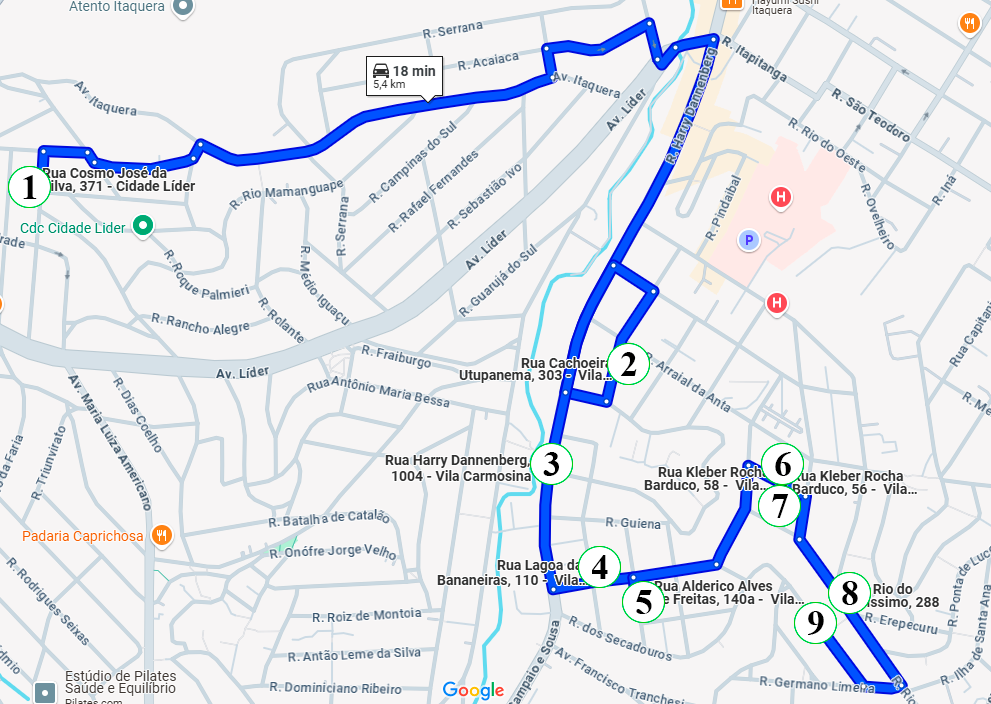
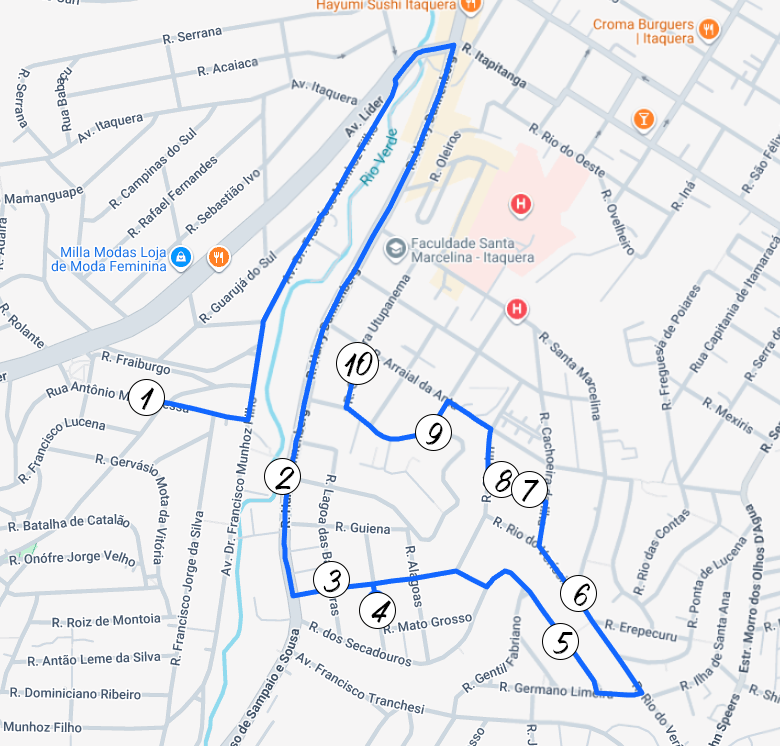
Atualização geral dos mapas

diff --git a/c-parque/c1.html b/c-parque/c1.html
@@ -62,12 +62,9 @@
 
     <main class="todos-enderecos">
         <h1>C1</h1>
-        <div class="botoes">
-            <a href="#" class="btn-trocar" id="btn01">Confirmados</a>
-            <a href="#" class="btn-trocar" id="btn02">Confirmar</a>
-        </div>
+        
         <section class="enderecos" id="enderecos">
-            <h3>Endereços confirmados</h3>
+            <h3>Parque do Carmo</h3>
             <table>
                 <tr>
                     <th class="vermelho">Nº</th>
@@ -77,62 +74,68 @@
                 </tr>
                 <tr>
                     <td class="linha-vermelha">1</td>
-                    <td class="linha-vermelha">R. Cosmo José da Silva, 371</td>
+                    <td class="linha-vermelha">R. Antônio Maria Bessa, 471</td>
                     <td class="linha-vermelha"></td>
-                    <td class="linha-vermelha ita"><a href="https://maps.app.goo.gl/Xz47ZzfyabTKdSjq5" target="_blank"><i class="bi bi-geo-alt-fill itaquera"></i></a></td>
+                    <td class="linha-vermelha"><a href="https://maps.app.goo.gl/NFpyh3jscUbqWLJY7"><i class="bi bi-geo-alt-fill itaquera"></i></a></td>
                 </tr>
                 <tr>
                     <td class="linha-vermelha">2</td>
                     <td class="linha-vermelha">Harry dannemberg, número 1004</td>
                     <td class="linha-vermelha">Portão pretro</td>
                     <td class="linha-vermelha"><a href="https://maps.app.goo.gl/voveXFeJ2vBLphCL7" target="_blank"><i class="bi bi-geo-alt-fill  itaquera"></i></a></td>
-                </tr>  
+                </tr>                                  
                 <tr>
                     <td class="linha-vermelha">3</td>
-                    <td class="linha-vermelha">R. Cachoeira Utupanema, 303</td>
+                    <td class="linha-vermelha">R. Lagoa das Bananeiras, 110
+                    </td>
                     <td class="linha-vermelha"></td>
-                    <td class="linha-vermelha"><a href="https://maps.app.goo.gl/mVWrsYh77WuEFRxn6" target="_blank"><i class="bi bi-geo-alt-fill  itaquera"></i></a></td>
-                </tr>  
+                    <td class="linha-vermelha"><a href="https://maps.app.goo.gl/q5GExsmqEWVbYnhm7" target="_blank"><i class="bi bi-geo-alt-fill  itaquera"></i></a></td>
+                </tr>
                 <tr>
                     <td class="linha-vermelha">4</td>
-                    <td class="linha-vermelha">R. Kleber Rocha Barduco, 56
-                    </td>
-                    <td class="linha-vermelha"></td>
-                    <td class="linha-vermelha"><a href="https://maps.app.goo.gl/uz8o5bQHafWFuuyR7" target="_blank"><i class="bi bi-geo-alt-fill  itaquera"></i></a></td>
-                </tr>  
+                    <td class="linha-vermelha">R. Alderico Alves de Freitas, 140A</td>
+                    <td class="linha-vermelha">Casa dos fundos</td>
+                    <td class="linha-vermelha"><a href="https://maps.app.goo.gl/KdkKXQ17B3BnMkCz7" target="_blank"><i class="bi bi-geo-alt-fill  itaquera"></i></a></td>
+                </tr> 
                 <tr>
                     <td class="linha-vermelha">5</td>
-                    <td class="linha-vermelha">R. Kleber Rocha Barduco, 58
-                    </td>
+                    <td class="linha-vermelha">R. Ferdinando Ramponi, 138</td>
                     <td class="linha-vermelha"></td>
-                    <td class="linha-vermelha"><a href="https://maps.app.goo.gl/ozDgnx7Df4MzHGMH7" target="_blank"><i class="bi bi-geo-alt-fill  itaquera"></i></a></td>
-                </tr>  
+                    <td class="linha-vermelha"><a href="https://maps.app.goo.gl/dJW7sA6TkEb4jS8p6" target="_blank"><i class="bi bi-geo-alt-fill  itaquera"></i></a></td>
+                </tr>   
                 <tr>
                     <td class="linha-vermelha">6</td>
                     <td class="linha-vermelha">R. Rio do Verissímo, 288
                     </td>
                     <td class="linha-vermelha"></td>
                     <td class="linha-vermelha"><a href="https://maps.app.goo.gl/BtEogCvsTKFQY8rp9" target="_blank"><i class="bi bi-geo-alt-fill  itaquera"></i></a></td>
-                </tr>
+                </tr> 
                 <tr>
                     <td class="linha-vermelha">7</td>
-                    <td class="linha-vermelha">R. Ferdinando Ramponi, 138</td>
+                    <td class="linha-vermelha">R. Kleber Rocha Barduco, 56
+                    </td>
                     <td class="linha-vermelha"></td>
-                    <td class="linha-vermelha"><a href="https://maps.app.goo.gl/dJW7sA6TkEb4jS8p6" target="_blank"><i class="bi bi-geo-alt-fill  itaquera"></i></a></td>
+                    <td class="linha-vermelha"><a href="https://maps.app.goo.gl/uz8o5bQHafWFuuyR7" target="_blank"><i class="bi bi-geo-alt-fill  itaquera"></i></a></td>
                 </tr>  
                 <tr>
                     <td class="linha-vermelha">8</td>
-                    <td class="linha-vermelha">R. Alderico Alves de Freitas, 140A</td>
-                    <td class="linha-vermelha">Casa dos fundos</td>
-                    <td class="linha-vermelha"><a href="https://maps.app.goo.gl/KdkKXQ17B3BnMkCz7" target="_blank"><i class="bi bi-geo-alt-fill  itaquera"></i></a></td>
-                </tr>                                 
-                <tr>
-                    <td class="linha-vermelha">9</td>
-                    <td class="linha-vermelha">R. Lagoa das Bananeiras, 110
+                    <td class="linha-vermelha">R. Kleber Rocha Barduco, 58
                     </td>
                     <td class="linha-vermelha"></td>
-                    <td class="linha-vermelha"><a href="https://maps.app.goo.gl/q5GExsmqEWVbYnhm7" target="_blank"><i class="bi bi-geo-alt-fill  itaquera"></i></a></td>
+                    <td class="linha-vermelha"><a href="https://maps.app.goo.gl/ozDgnx7Df4MzHGMH7" target="_blank"><i class="bi bi-geo-alt-fill  itaquera"></i></a></td>
+                </tr> 
+                <tr>
+                    <td class="linha-vermelha">9</td>
+                    <td class="linha-vermelha">R. Maruins, 284</td>
+                    <td class="linha-vermelha"></td>
+                    <td class="linha-vermelha"><a href="https://maps.app.goo.gl/3ygy8AmFKYirmTCy5"><i class="bi bi-geo-alt-fill"></i></a></td>
                 </tr>
+                <tr>
+                    <td class="linha-vermelha">10</td>
+                    <td class="linha-vermelha">R. Cachoeira Utupanema, 303</td>
+                    <td class="linha-vermelha"></td>
+                    <td class="linha-vermelha"><a href="https://maps.app.goo.gl/mVWrsYh77WuEFRxn6" target="_blank"><i class="bi bi-geo-alt-fill  itaquera"></i></a></td>
+                </tr> 
             </table>
 
             <div class="nao-bater" style="display: none;">
@@ -145,36 +148,6 @@
                 <a href="https://www.google.com/maps/d/u/8/embed?mid=18EdllE9wmiOfn-BB6eSx7nuyU2MxZlk&ehbc=2E312F" target="_blank"><img src="/src/img/c-parque/c1.png" alt="Prévia do Território" title="Prévia do Território"></a>
             </div>
 
-        </section>
-        
-
-        <section class="confirmacao oculto" id="confirmacao">
-            <h3>Endereços para confirmar</h3>
-            <table>
-                <tr>
-                    <th class="vermelho">Nº</th>
-                    <th class="vermelho">Endereços</th>
-                    <th class="vermelho">Rota</th>
-                </tr>
-                <tr>
-                    <td class="linha-branca">1</td>
-                    <td class="linha-branca">R. Maruins, 284</td>
-                    <td class="linha-branca"><a href="https://maps.app.goo.gl/3ygy8AmFKYirmTCy5"><i class="bi bi-geo-alt-fill"></i></a></td>
-                </tr>
-                <tr>
-                    <td class="linha-branca">2</td>
-                    <td class="linha-branca">Rua Antônio Maria Bessa, 471</td>
-                    <td class="linha-branca"><a href="https://maps.app.goo.gl/NFpyh3jscUbqWLJY7"><i class="bi bi-geo-alt-fill"></i></a></td>
-                </tr>
-                <tr>
-                    <td class="linha-branca">3</td>
-                    <td class="linha-branca">Rua Harry Dannenberg, 1228</td>
-                    <td class="linha-branca"><a href="https://maps.app.goo.gl/w3PW9Y6sSB2jF1HL9"><i class="bi bi-geo-alt-fill"></i></a></td>
-                </tr>
-            </table>
-            <div class="previa-confimar">
-                <a href="#"><img src="" alt="Previa do territorio"></a>
-            </div>
         </section>
         
     </main>

diff --git a/c-parque/c3.html b/c-parque/c3.html
@@ -64,12 +64,8 @@
 
     <main class="todos-enderecos">
         <h1>C3</h1>
-        <div class="botoes">
-            <a href="#" class="btn-trocar" id="btn01">Confirmados</a>
-            <a href="#" class="btn-trocar" id="btn02">Confirmar</a>
-        </div>
         <section class="enderecos" id="enderecos">
-            <h3>Endereços confirmados</h3>
+            <h3>Parque do Carmo</h3>
             <table>
                 <tr>
                     <th class="vermelho">Nº</th>
@@ -92,41 +88,46 @@
                 </tr>
                 <tr>
                     <td class="linha-vermelha">3</td>
+                    <td class="linha-vermelha">R. Estrela da Terra 38</td>
+                    <td class="linha-vermelha"></td>
+                    <td class="linha-vermelha"><a href="https://maps.app.goo.gl/sGzxjKtB2PJCsSPc6" target="_blank"><i class="bi bi-geo-alt-fill  itaquera"></i></a></td>
+                </tr>
+                <tr>
+                    <td class="linha-vermelha">4</td>
                     <td class="linha-vermelha">R. Estrelas da Terra, 139</td>
                     <td class="linha-vermelha"></td>
                     <td class="linha-vermelha"><a href="https://maps.app.goo.gl/gFEMRzemUupmcU6r6" target="_blank"><i class="bi bi-geo-alt-fill  itaquera"></i></a></td>
                 </tr>
                 <tr>
-                    <td class="linha-vermelha">4</td>
+                    <td class="linha-vermelha">5</td>
+                    <td class="linha-vermelha">R. Carmem Cardoso Bordini, 193</td>
+                    <td class="linha-vermelha"></td>
+                    <td class="linha-vermelha"><a href="https://maps.app.goo.gl/z8evAHbe4pcEGbBx6" target="_blank"><i class="bi bi-geo-alt-fill  itaquera"></i></a></td>
+                </tr>
+                <tr>
+                    <td class="linha-vermelha">6</td>
+                    <td class="linha-vermelha">R. Guilherme da Cruz, 3</td>
+                    <td class="linha-vermelha"></td>
+                    <td class="linha-vermelha"><a href="https://maps.app.goo.gl/B9nvsA4Da7YFu6Xh9"><i class="bi bi-geo-alt-fill itaquera"></i></a></td>
+                </tr>
+                <tr>
+                    <td class="linha-vermelha">7</td>
                     <td class="linha-vermelha">R. Manoel Bacelar, 251
                     </td>
                     <td class="linha-vermelha"></td>
                     <td class="linha-vermelha"><a href="https://maps.app.goo.gl/Bv8cH2kYUrvG2p2N8" target="_blank"><i class="bi bi-geo-alt-fill  itaquera"></i></a></td>
                 </tr>
                 <tr>
-                    <td class="linha-vermelha">5</td>
-                    <td class="linha-vermelha">Manoel Bacelar 353</td>
+                    <td class="linha-vermelha">8</td>
+                    <td class="linha-vermelha">R. Manoel Bacelar 353</td>
                     <td class="linha-vermelha"></td>
                     <td class="linha-vermelha"><a href="https://maps.app.goo.gl/mbosD2RofcWhwkW59" target="_blank"><i class="bi bi-geo-alt-fill  itaquera"></i></a></td>
                 </tr>
                 <tr>
-                    <td class="linha-vermelha">6</td>
-                    <td class="linha-vermelha">R. Carmem Cardoso Bordini, 193
-                    </td>
-                    <td class="linha-vermelha"></td>
-                    <td class="linha-vermelha"><a href="https://maps.app.goo.gl/z8evAHbe4pcEGbBx6" target="_blank"><i class="bi bi-geo-alt-fill  itaquera"></i></a></td>
-                </tr>
-                <tr>
-                    <td class="linha-vermelha">7</td>
+                    <td class="linha-vermelha">9</td>
                     <td class="linha-vermelha">R. Gonçalo Brandão, 253</td>
                     <td class="linha-vermelha"></td>
                     <td class="linha-vermelha"><a href="https://maps.app.goo.gl/FkrDauyRcPEGKfrU6" target="_blank"><i class="bi bi-geo-alt-fill  itaquera"></i></a></td>
-                </tr>
-                <tr>
-                    <td class="linha-vermelha">8</td>
-                    <td class="linha-vermelha">Estrela da Terra 38</td>
-                    <td class="linha-vermelha"></td>
-                    <td class="linha-vermelha"><a href="https://maps.app.goo.gl/sGzxjKtB2PJCsSPc6" target="_blank"><i class="bi bi-geo-alt-fill  itaquera"></i></a></td>
                 </tr>
             </table>
 
@@ -141,26 +142,6 @@
                 <a href="https://www.google.com/maps/d/u/8/embed?mid=1C0cVALT7XNFUgFETimQmgzJlL0Thxj4&ehbc=2E312F" target="_blank"><img src="/src/img/c-parque/c3.png" alt="Prévia do Território" title="Prévia do Território"></a>
             </div>
 
-        </section>
-        
-
-        <section class="confirmacao oculto" id="confirmacao">
-            <h3>Endereços para confirmar</h3>
-            <table>
-                <tr>
-                    <th class="vermelho">Nº</th>
-                    <th class="vermelho">Endereços</th>
-                    <th class="vermelho">Rota</th>
-                </tr>
-                <tr>
-                    <td class="linha-branca">1</td>
-                    <td class="linha-branca">R. Guilherme da Cruz, 3</td>
-                    <td class="linha-branca"><a href="https://maps.app.goo.gl/B9nvsA4Da7YFu6Xh9"><i class="bi bi-geo-alt-fill"></i></a></td>
-                </tr>
-            </table>
-            <div class="previa-confimar">
-                <a href="#"><img src="" alt="Previa do territorio"></a>
-            </div>
         </section>
         
     </main>

diff --git a/c-parque/c2.html b/c-parque/c2.html
@@ -64,12 +64,8 @@
 
     <main class="todos-enderecos">
         <h1>C2</h1>
-        <div class="botoes">
-            <a href="#" class="btn-trocar" id="btn01">Confirmados</a>
-            <a href="#" class="btn-trocar" id="btn02">Confirmar</a>
-        </div>
         <section class="enderecos" id="enderecos">
-            <h3>Endereços confirmados</h3>
+            <h3>Parque do Carmo</h3>
             <table>
                 <tr>
                     <th class="vermelho">Nº</th>
@@ -93,28 +89,34 @@
                 </tr>
                 <tr>
                     <td class="linha-vermelha">3</td>
+                    <td class="linha-vermelha">R. Erepecuru, 158 </td>
+                    <td class="linha-vermelha"></td>
+                    <td class="linha-vermelha"><a href="https://maps.app.goo.gl/DiAY9M9t1BZynR3E6"><i class="bi bi-geo-alt-fill itaquera"></i></a></td>
+                </tr>
+                <tr>
+                    <td class="linha-vermelha">4</td>
                     <td class="linha-vermelha">R. Maria Margarida, 426</td>
                     <td class="linha-vermelha"> Casa 3</td>
                     <td class="linha-vermelha"><a href="https://maps.app.goo.gl/hpu5vN2mgL5Pt8727" target="_blank"><i
                                 class="bi bi-geo-alt-fill  itaquera"></i></a></td>
                 </tr>
                 <tr>
-                    <td class="linha-vermelha">4</td>
+                    <td class="linha-vermelha">5</td>
                     <td class="linha-vermelha">R. Adelina Patti, 185</td>
                     <td class="linha-vermelha">Estudante do Luiz Alberto</td>
                     <td class="linha-vermelha"><a href="https://maps.app.goo.gl/kNpKoidUNC7cY4Qv9" target="_blank"><i
                                 class="bi bi-geo-alt-fill  itaquera"></i></a></td>
                 </tr>
                 <tr>
-                    <td class="linha-vermelha">5</td>
+                    <td class="linha-vermelha">6</td>
                     <td class="linha-vermelha">R. Osmano Ungaretti, 02
                     </td>
                     <td class="linha-vermelha"></td>
-                    <td class="linha-vermelha"><a href="https://maps.app.goo.gl/FAbsFiuzTxKYtp6R7" target="_blank"><i
+                    <td class="linha-vermelha"><a href="https://maps.app.goo.gl/JkZNxa3DrEHVSx3v6" target="_blank"><i
                                 class="bi bi-geo-alt-fill  itaquera"></i></a></td>
                 </tr>
                 <tr>
-                    <td class="linha-vermelha">6</td>
+                    <td class="linha-vermelha">7</td>
                     <td class="linha-vermelha">R. Francisco Velho, 41A
                     </td>
                     <td class="linha-vermelha"></td>
@@ -126,7 +128,9 @@
             <div class="nao-bater" style="display: none;">
                 <h3>NÃO BATER</h3>
                 <div class="item-nao-bater">
-                    
+                    <p>1</p>
+                    <p>endereço</p>
+                    <p>data</p>
                 </div>
             </div>
 
@@ -134,31 +138,6 @@
                 <a href="https://www.google.com/maps/d/u/8/embed?mid=11ptjWTpGaZ4GXghi8-6MRtXzpwf95D8&ehbc=2E312F" target="_blank"><img src="/src/img/c-parque/c2.png" alt="Prévia do Território" title="Prévia do Território"></a>
             </div>
 
-        </section>
-
-
-        <section class="confirmacao oculto" id="confirmacao">
-            <h3>Endereços para confirmar</h3>
-            <table>
-                <tr>
-                    <th class="vermelho">Nº</th>
-                    <th class="vermelho">Endereços</th>
-                    <th class="vermelho">Rota</th>
-                </tr>
-                <tr>
-                    <td class="linha-branca">1</td>
-                    <td class="linha-branca">R. Serra de São Domingos, 1137</td>
-                    <td class="linha-branca"><a href="https://maps.app.goo.gl/LgLW7cByKaUYp3EUA"><i class="bi bi-geo-alt-fill"></i></a></td>
-                </tr>
-                <tr>
-                    <td class="linha-branca">2</td>
-                    <td class="linha-branca">R. Erepecuru, 158 </td>
-                    <td class="linha-branca"><a href="https://maps.app.goo.gl/DiAY9M9t1BZynR3E6"><i class="bi bi-geo-alt-fill"></i></a></td>
-                </tr>
-            </table>
-            <div class="previa-confimar">
-                <a href="#"><img src="" alt="Previa do territorio"></a>
-            </div>
         </section>
 
     </main>
